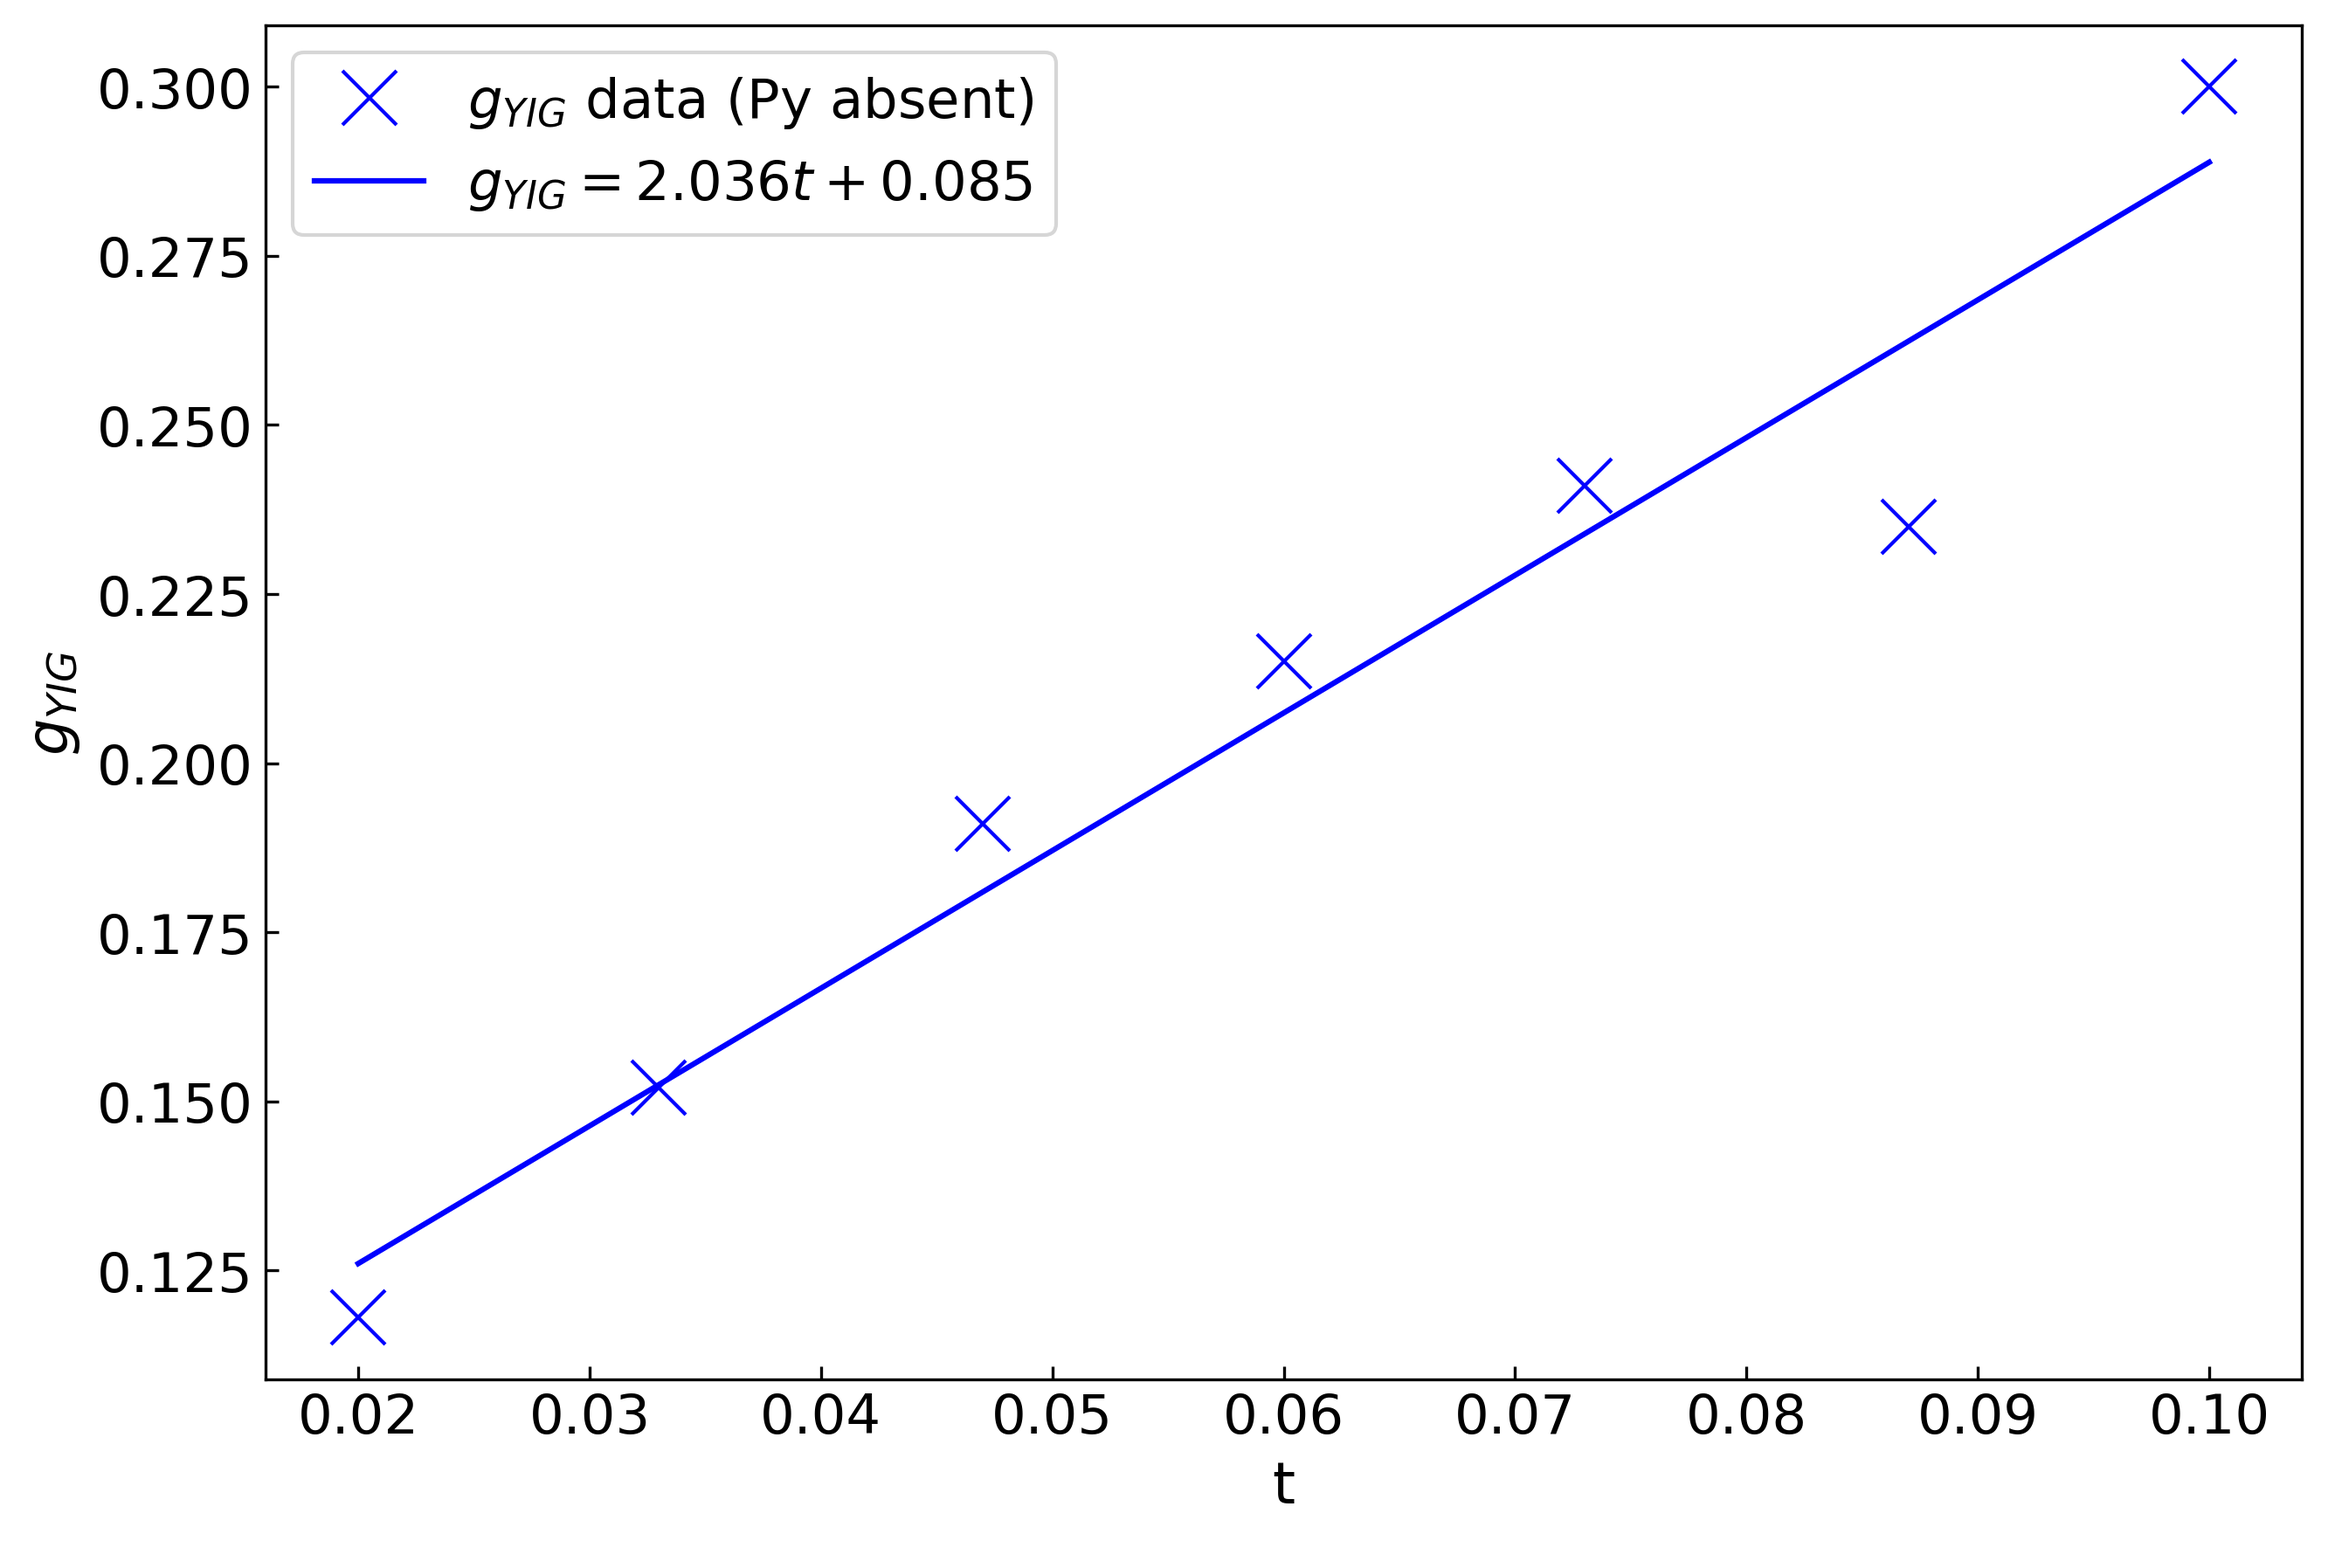
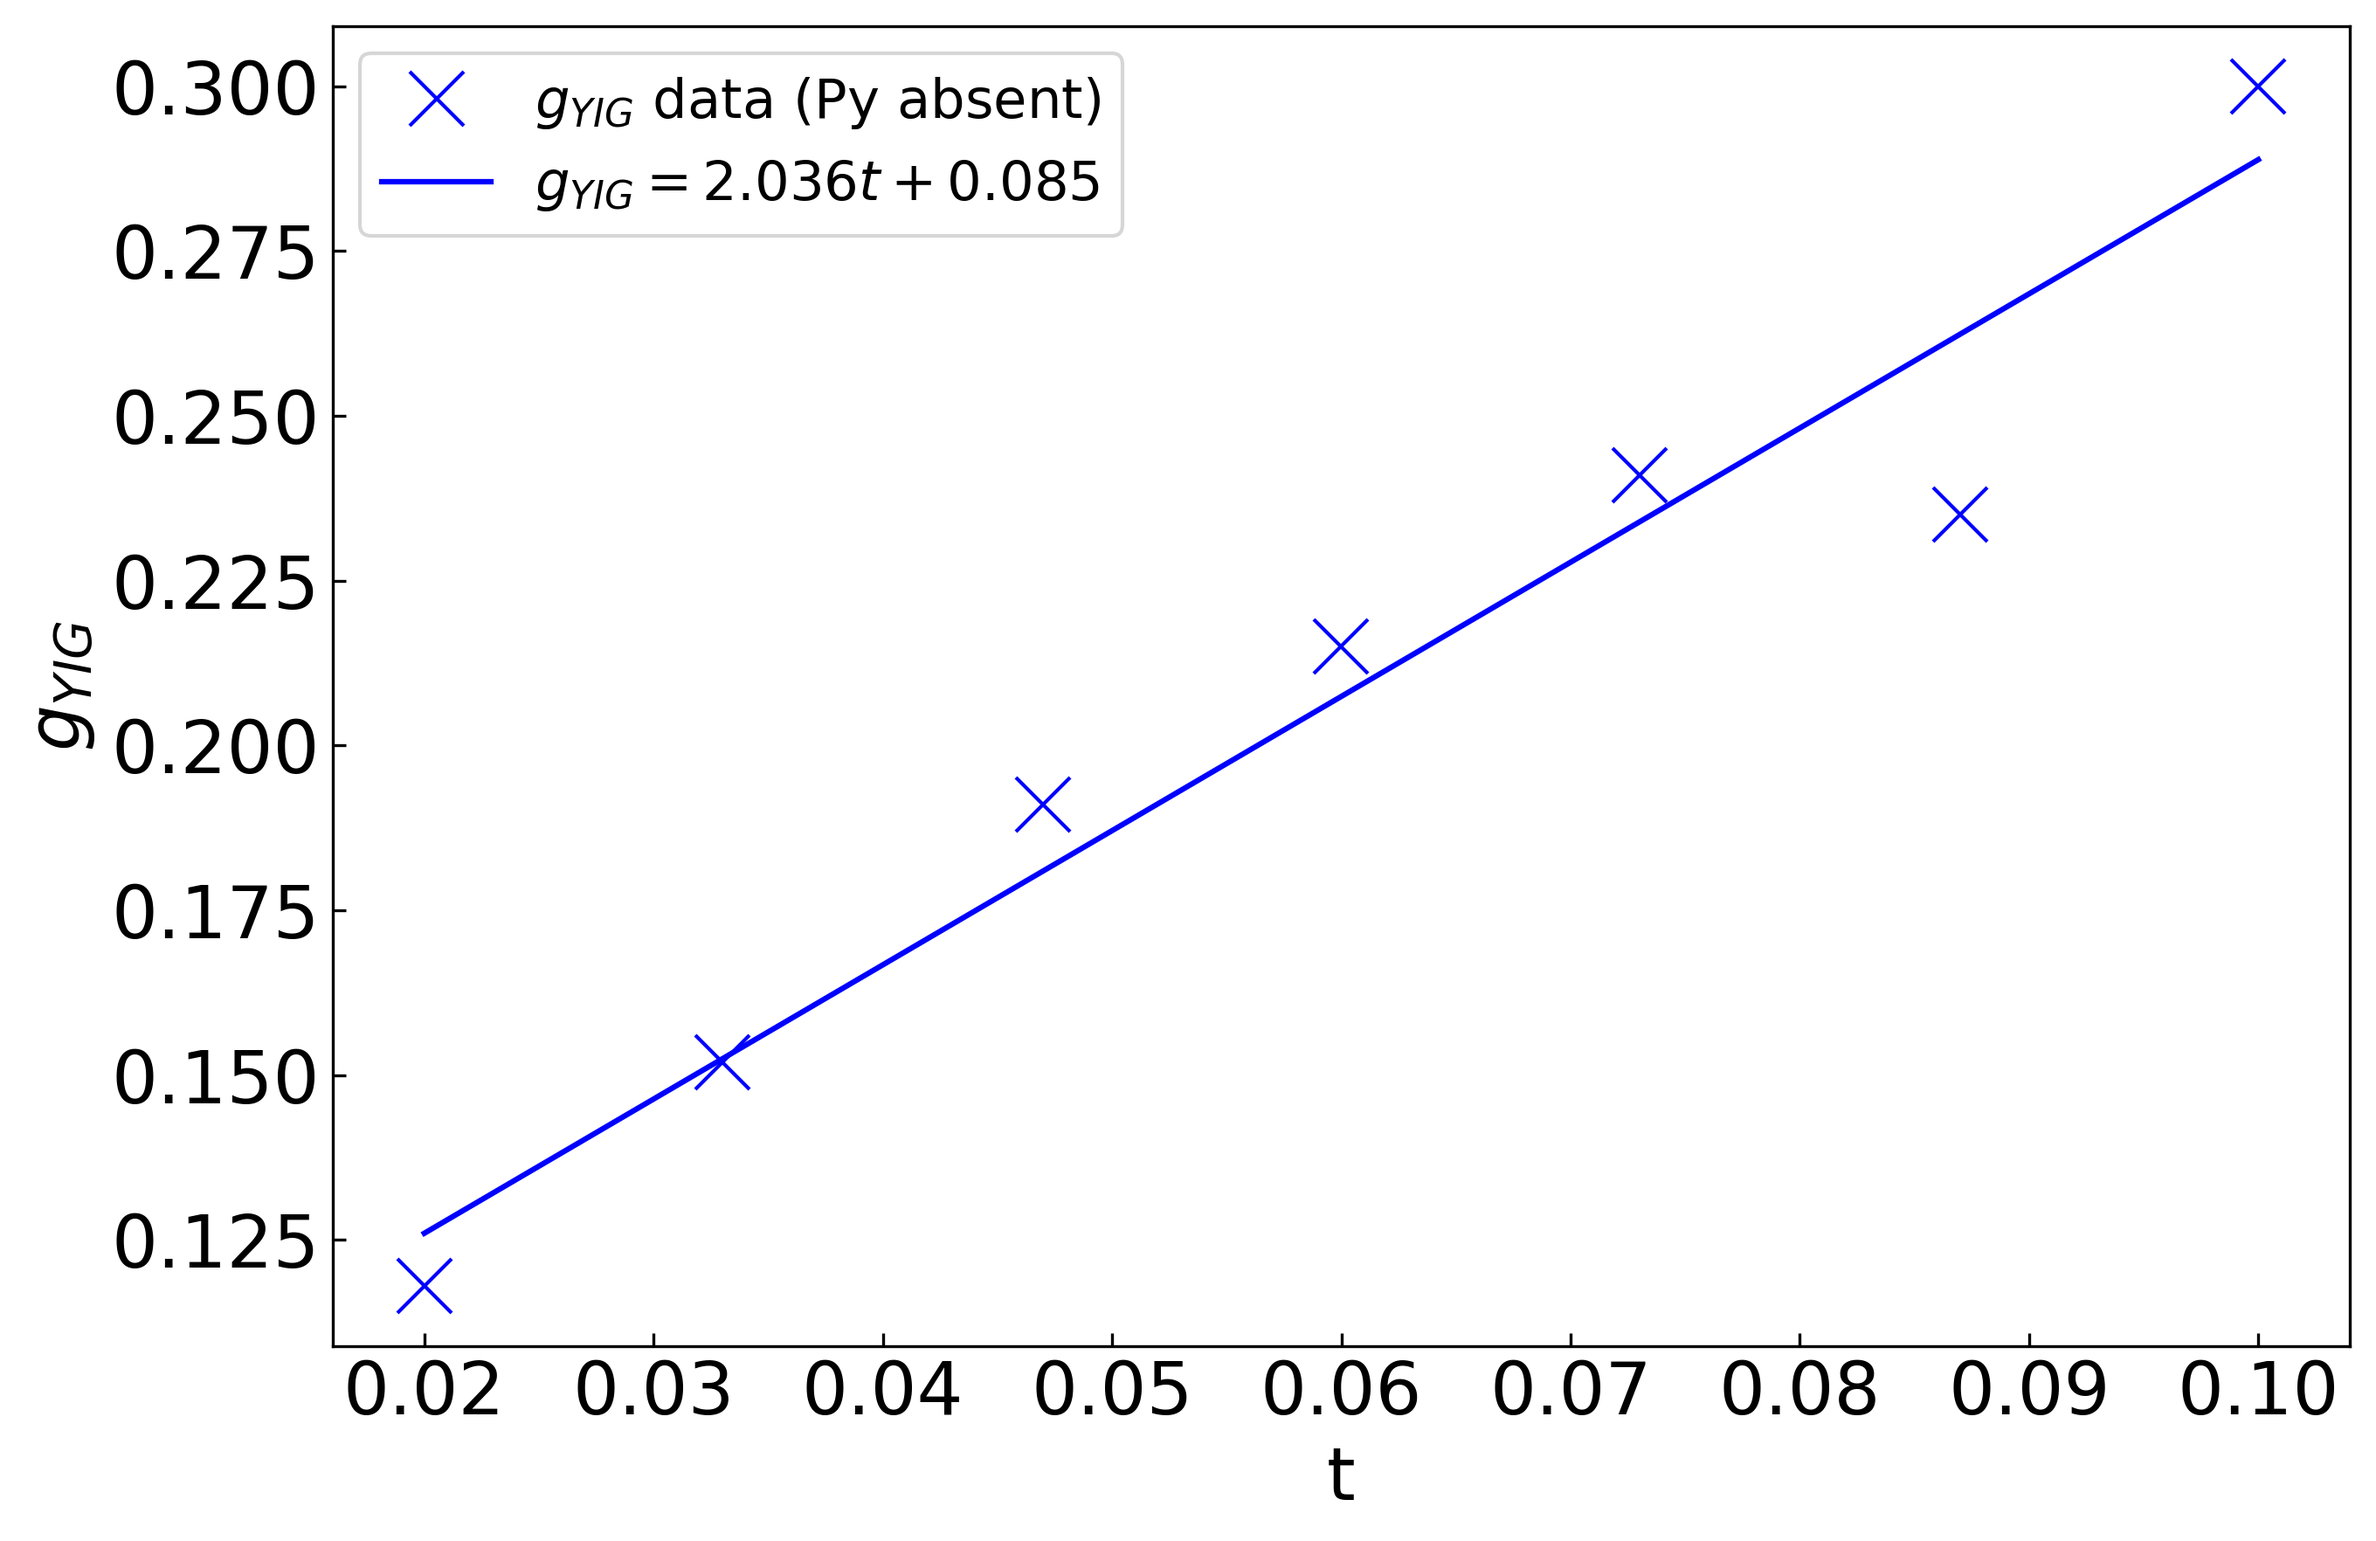
Enhance plot aesthetics by increasing font sizes and marker colors for better visibility

diff --git a/g vs t/g2_vs_g1.py b/g vs t/g2_vs_g1.py
@@ -23,11 +23,11 @@ print(f"Slope: {slope}, Intercept: {intercept}, R-squared: {r_value**2}")
 
 plt.figure(figsize=(9, 6))
 
-plt.plot(g2, slope * g2 + intercept, 'b-', label=f'Fit: $g_{{Py}} = {slope:.2f} g_{{YIG}} + {intercept:.2f}$')
-plt.plot(g2,g1,'ro',markersize=16,label='Data')
-plt.xlabel("$g_{YIG}$",fontsize=16)
-plt.ylabel("$g_{Py}$",fontsize=16)
-plt.tick_params(axis='both', which='major', labelsize=15, direction='in')
+plt.plot(g2,g1,'go',markersize=16,label='Data')
+plt.plot(g2, slope * g2 + intercept, 'g-', label=f'Fit: $g_{{Py}} = {slope:.2f} g_{{YIG}} + {intercept:.2f}$')
+plt.xlabel("$g_{YIG}$",fontsize=20)
+plt.ylabel("$g_{Py}$",fontsize=20)
+plt.tick_params(axis='both', which='major', labelsize=20, direction='in')
 plt.tick_params(axis='both', which='minor', labelsize=8, direction='in')
 # plt.legend(fontsize=12)
 plt.legend(fontsize=15)

diff --git a/g vs t/g1g2_vs_t_plotter_saturation.py b/g vs t/g1g2_vs_t_plotter_saturation.py
@@ -147,9 +147,9 @@ plt.plot(t, g2_fit_vals, 'b-', label=f'$g_{{YIG}} = {g2_model.coef_[0]:.2f}t + {
 # plt.plot(t_fit, g2_fit_plot, 'r--', label=f'g2 fit: y = {params_g2[0]:.2f} * (1 - exp(-{params_g2[1]:.2f} * x)) + {params_g2[2]:.2f}')
 
 # Customize plot
-plt.xlabel('t',fontsize=16)
-plt.ylabel('$g$',fontsize=16)
-plt.tick_params(axis='both', which='major', labelsize=15, direction='in')
+plt.xlabel('t',fontsize=20)
+plt.ylabel('$g$',fontsize=20)
+plt.tick_params(axis='both', which='major', labelsize=20, direction='in')
 plt.tick_params(axis='both', which='minor', labelsize=8, direction='in')
 # plt.title(f'Saturation Fits for g1 and g2 (R^2: g1 = {r2_g1:.2f}, g2 = {r2_g2:.2f})')
 plt.legend(fontsize=15)

diff --git a/g vs t/gyig_vs_t.py b/g vs t/gyig_vs_t.py
@@ -38,10 +38,10 @@ plt.plot(t_fit, J_fit, 'b-', label=f'$g_{{YIG}} = {slope:.3f}t {'+'*(int(interce
 plt.legend(fontsize=15)
 
 # plt.title('$g_{YIG}$ vs t')
-plt.xlabel('t',fontsize=16)
-plt.ylabel('$g_{YIG}$',fontsize=16)
+plt.xlabel('t',fontsize=20)
+plt.ylabel('$g_{YIG}$',fontsize=20)
 # plt.grid()
-plt.tick_params(axis='both', which='major', labelsize=15, direction='in')
+plt.tick_params(axis='both', which='major', labelsize=20, direction='in')
 plt.tick_params(axis='both', which='minor', labelsize=8, direction='in')
 plt.tight_layout()
 plt.savefig('tentative\\images\\Jvst.png',dpi=300, bbox_inches='tight')
